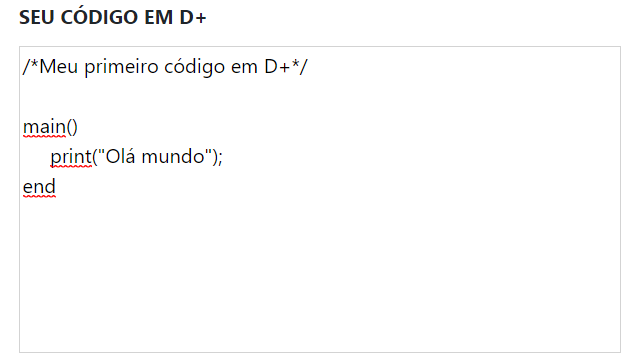
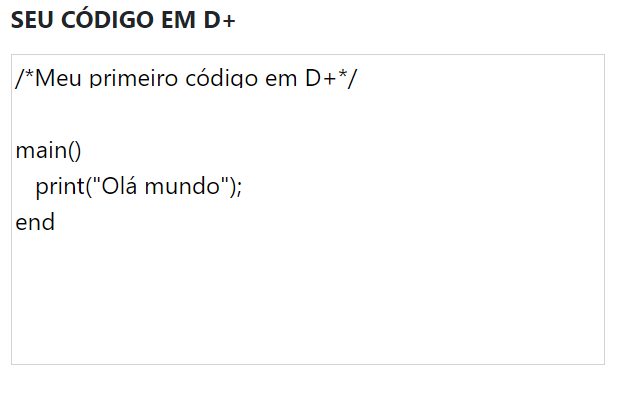
fixed Manual view

diff --git a/src/LearnCompiler/wwwroot/css/manual.css b/src/LearnCompiler/wwwroot/css/manual.css
@@ -1,6 +1,6 @@
 img {
-    height: 30vh !important;
-    width: auto !important;
+    height: auto !important;
+    width: 35% !important;
 }
 
 .card-body{
